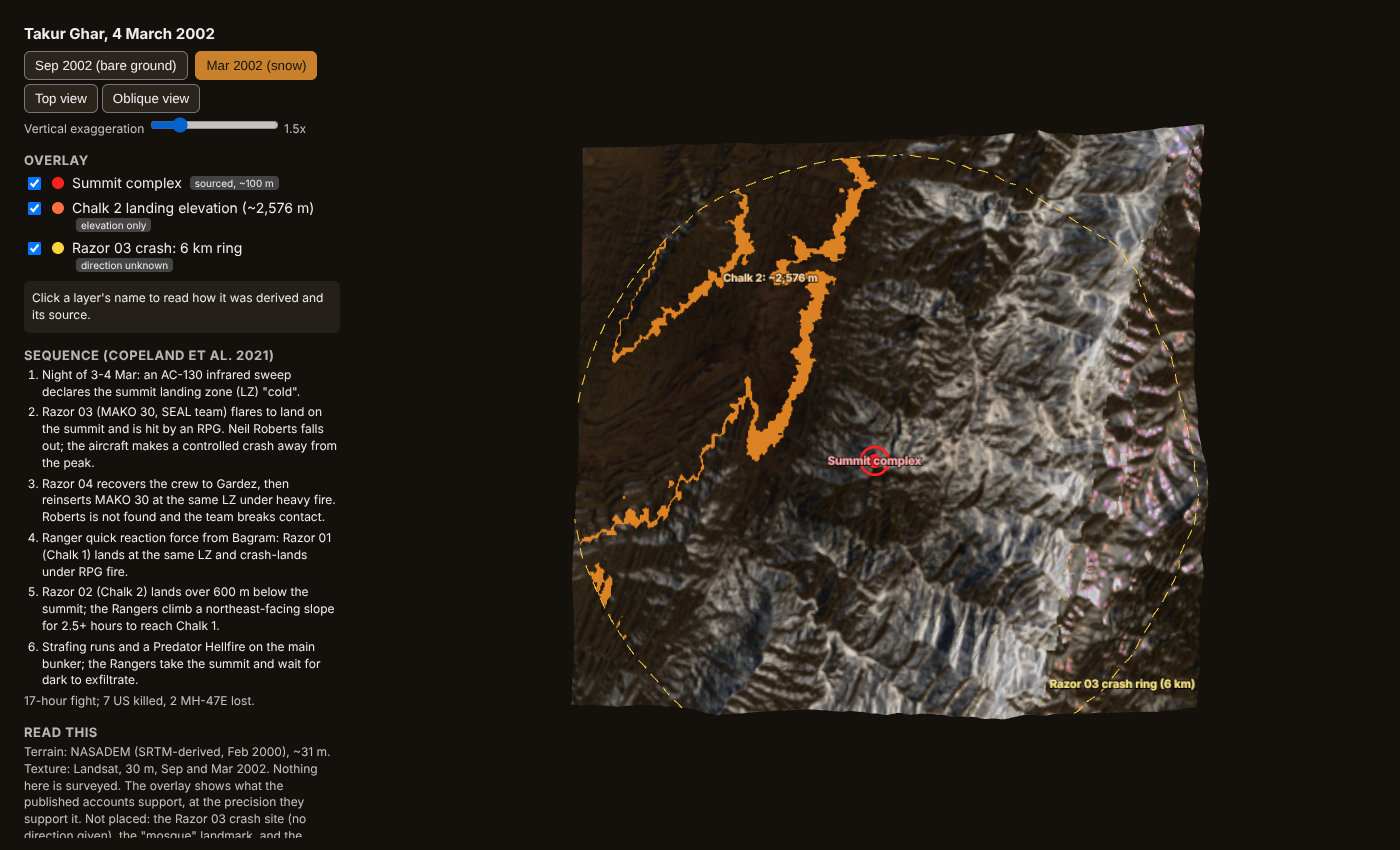
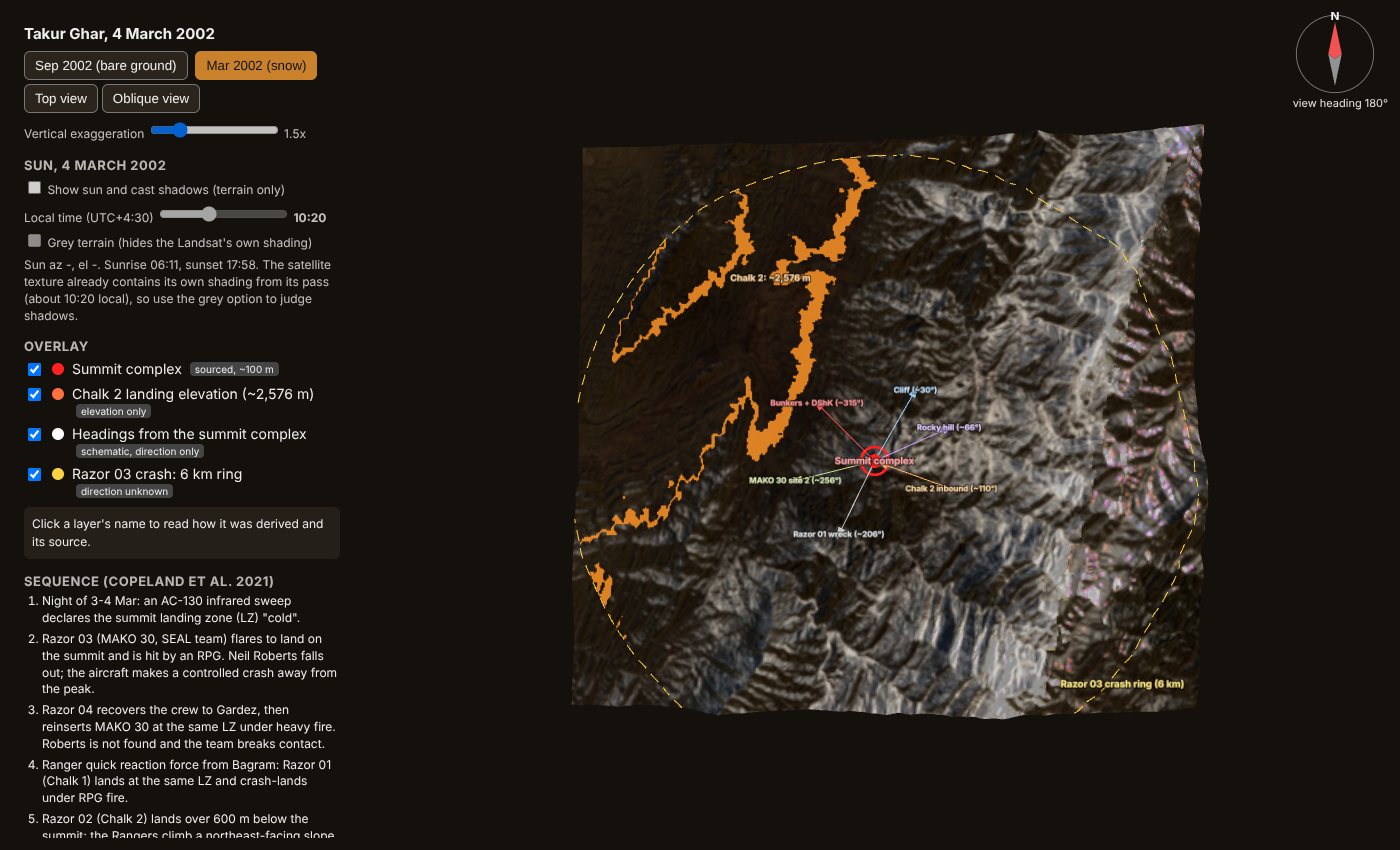
Add headings, compass, sun/shadow analysis and OSM peak check to the Takur Ghar viewer
Headings read from Naylor (2005) sketch via Battlecast and Copeland et al. Fig. 3.
Viewshed is computed but not committed: it is not robust to observer height.

Claude-Session: https://claude.ai/code/session_01DWeMD2oLoGkautpdgaCY6w

diff --git a/gods-eye-view/research/takur-ghar/viewer.html b/gods-eye-view/research/takur-ghar/viewer.html
@@ -13,15 +13,21 @@
   button[aria-pressed="true"] { background: #c9822b; border-color: #c9822b; color: #111; }
   label.layer { display: flex; gap: 8px; align-items: flex-start; margin: 6px 0; cursor: pointer; }
   .sw { width: 12px; height: 12px; border-radius: 50%; margin-top: 3px; flex: none; }
+  label.note { display: block; margin: 5px 0; }
   small, .note { font-size: 12px; opacity: .8; line-height: 1.4; }
   #info { margin-top: 8px; padding: 8px; background: #241f18; border-radius: 6px; font-size: 12px; line-height: 1.45; min-height: 3em; }
   ol { padding-left: 18px; margin: 4px 0; font-size: 12px; line-height: 1.4; }
   li { margin-bottom: 4px; }
   .tag { display: inline-block; font-size: 10px; padding: 1px 5px; border-radius: 4px; background: #444; margin-left: 4px; vertical-align: 1px; }
+  #compass { position: fixed; top: 12px; right: 12px; text-align: center; font-size: 11px; opacity: .95; }
+  #compass svg { display: block; }
   @media (max-width: 700px) { #ui { width: auto; right: 12px; bottom: auto; max-height: 45vh; } }
 </style>
 </head>
 <body>
+<div id="compass" aria-label="compass"><svg viewBox="-50 -50 100 100" width="84" height="84">
+  <circle r="46" fill="rgba(20,17,13,.8)" stroke="#888"/><g id="needle"><path d="M0 -38 L8 0 L0 6 L-8 0Z" fill="#ff5555"/><path d="M0 38 L8 0 L0 6 L-8 0Z" fill="#999"/>
+  <text y="-40" text-anchor="middle" font-size="14" font-weight="700" fill="#fff" transform="translate(0,-0)">N</text></g></svg><div id="cvals">N up</div></div>
 <div id="ui">
   <h1>Takur Ghar, 4 March 2002</h1>
   <div>
@@ -42,6 +48,8 @@
     <span>Summit complex <span class="tag">sourced, ~100 m</span></span></label>
   <label class="layer"><input type="checkbox" id="L_chalk2" checked><span class="sw" style="background:#ff7040"></span>
     <span>Chalk 2 landing elevation (~2,576 m) <span class="tag">elevation only</span></span></label>
+  <label class="layer"><input type="checkbox" id="L_head" checked><span class="sw" style="background:#ffffff"></span>
+    <span>Headings from the summit complex <span class="tag">schematic, direction only</span></span></label>
   <label class="layer"><input type="checkbox" id="L_ring" checked><span class="sw" style="background:#ffd23f"></span>
     <span>Razor 03 crash: 6 km ring <span class="tag">direction unknown</span></span></label>
   <div id="info">Click a layer's name to read how it was derived and its source.</div>
@@ -74,13 +82,16 @@ import { GLTFLoader } from 'three/addons/loaders/GLTFLoader.js';
 import { OrbitControls } from 'three/addons/controls/OrbitControls.js';
 
 const INFO = {
-  summit: '<b>Summit complex</b> (DEM high point 3,172 m; published 3,186 m, about 450 m from the usually quoted coordinate). ' +
+  summit: '<b>Summit complex</b> (terrain high point 3,172 m at 33.3429 N 69.2135 E; published 3,186 m; OpenStreetMap\'s peak node, imported from the NGA names database, gives 3,191 m and is 90 m away, which is an independent check on the location). ' +
     'Per Copeland et al. (2021): enemy bunkers, a DShK heavy machine gun and mortar positions on the peak; a bowl-shaped, snow-covered LZ about 60 m from the bunkers; ' +
     'the Ranger fighting position beside the LZ; the northeast flank was a vertical cliff. Razor 03 was hit landing here, Razor 04 reinserted here, Razor 01 crash-landed here. ' +
     'All of it sits within ~100 m, which this 31 m terrain can\'t separate, so it is one marker.',
-  chalk2: '<b>Chalk 2 landing elevation.</b> Razor 02 put Chalk 2 "over 600 m below the summit" (about 2,000 ft below the LZ), and they then climbed a northeast-facing slope for over 2.5 hours (Copeland et al. 2021, citing Macpherson 2005). ' +
-    'The orange band is the terrain at about 2,576 m within 6 km of the summit. The landing was somewhere along it; the sources do not say where. ' +
-    'In this terrain model all ground at that elevation lies on the western, valley side, while the paper\'s Figure 3 draws the Chalk 2 approach from the east. I could not reconcile the two (the published summit height and coordinate, or "over 600 m", may be loose), and a search for steep northeast-facing slopes leading up to the summit found almost nothing, so no landing spot is claimed.',
+  chalk2: '<b>Chalk 2 landing elevation.</b> Razor 02 put Chalk 2 "over 600 m below the summit" (about 2,000 ft below the LZ) and they climbed a northeast-facing slope for over 2.5 hours (Copeland et al. 2021, citing Macpherson 2005). The orange band is the terrain at about 2,576 m within 6 km of the summit. ' +
+    '<b>Unresolved:</b> Naylor\'s sketch and Copeland\'s Figure 3 both show Chalk 2 arriving from the east or south-east, but in this terrain model there is no ground near 2,576 m east or south-east of the summit within 8 km (it is 2,800-3,300 m there); the 2,576 m ground is west and north-west, on the valley side. ' +
+    'Either "2,000 feet below" or the direction (or this elevation model) is off, so no landing spot is claimed.',
+  head: '<b>Headings</b> read from two schematics: Naylor (2005), "Razor 01 assault on Al Qaida bunker atop Takur Ghar" (as reproduced on thebattlecast.com), whose compass arrow is labelled "W" and points up, so west is up on that sketch; and Copeland et al. Fig. 3. ' +
+    'They agree that the bunkers are north-west of the Rangers\' position and that Chalk 2 came from the east. Bearings are good to about 25 deg and lengths mean nothing (the sketches are not to scale). The arrows start at the summit marker because the whole complex is within about 100 m. ' +
+    'The orientation read from the W arrow is mine; if you can check it against the book, do.',
   ring: '<b>Razor 03 crash: 6 km ring.</b> The geographic analysis says Razor 03 made a controlled crash "away from the peak"; the Army SOF history ("From a Great Height") puts tail 476 about 6 km from Takur Ghar. ' +
     'Neither gives a direction, so this is only a ring. Treating tail 476 as Razor 03 is my inference, and the sources are not fully consistent with each other.',
 };
@@ -123,7 +134,7 @@ const layers = {};
 function label(text, color) {
   const c = document.createElement('canvas'); c.width = 512; c.height = 96;
   const g = c.getContext('2d');
-  g.font = 'bold 40px system-ui, sans-serif'; g.textAlign = 'center'; g.textBaseline = 'middle';
+  g.font = 'bold 34px system-ui, sans-serif'; g.textAlign = 'center'; g.textBaseline = 'middle';
   g.lineWidth = 8; g.strokeStyle = 'rgba(0,0,0,.85)'; g.strokeText(text, 256, 48);
   g.fillStyle = color; g.fillText(text, 256, 48);
   const sp = new THREE.Sprite(new THREE.SpriteMaterial({ map: new THREE.CanvasTexture(c), depthTest: false, transparent: true }));
@@ -196,6 +207,25 @@ Promise.all([
   const mid = ov.ring6km.filter(Boolean)[Math.floor(ov.ring6km.filter(Boolean).length / 2)];
   rlab.position.set(mid[0], mid[1] + 700, mid[2]); ringG.add(rlab);
   world.add(ringG); layers.ring = ringG;
+  // Headings: direction arrows from the summit complex (lengths are arbitrary)
+  const headG = new THREE.Group();
+  for (const hd of ov.headings) {
+    const b = THREE.MathUtils.degToRad(hd.bearing);
+    const dir = new THREE.Vector3(Math.sin(b), 0, -Math.cos(b)); // x east, z south
+    const len = 1500, y0 = sy + 220;
+    const from = new THREE.Vector3(sx, y0, sz), to = from.clone().addScaledVector(dir, len);
+    const col = new THREE.Color(hd.color);
+    const pts = hd.inbound ? [to, from] : [from, to];
+    headG.add(new THREE.Line(new THREE.BufferGeometry().setFromPoints(pts), new THREE.LineBasicMaterial({ color: col })));
+    const head = new THREE.Mesh(new THREE.ConeGeometry(70, 220, 10), new THREE.MeshBasicMaterial({ color: col }));
+    const tip = hd.inbound ? from.clone().addScaledVector(dir, 140) : to;
+    head.position.copy(tip);
+    head.quaternion.setFromUnitVectors(new THREE.Vector3(0, 1, 0), hd.inbound ? dir.clone().negate() : dir);
+    headG.add(head);
+    const l = label(`${hd.label} (~${hd.bearing}°)`, hd.color); l.scale.set(2200, 412, 1);
+    l.position.copy(to).add(new THREE.Vector3(0, 160, 0)); headG.add(l);
+  }
+  world.add(headG); layers.head = headG;
   window.__ready = true;
 });
 
@@ -236,8 +266,8 @@ function setGrey(g) {
 document.getElementById('grey').addEventListener('change', (e) => setGrey(e.target.checked));
 const _apply = apply;
 
-for (const key of ['summit', 'chalk2', 'ring']) {
-  const box = document.getElementById('L_' + (key === 'ring' ? 'ring' : key));
+for (const key of ['summit', 'chalk2', 'ring', 'head']) {
+  const box = document.getElementById('L_' + key);
   box.addEventListener('change', () => { if (layers[key]) layers[key].visible = box.checked; });
   box.parentElement.querySelector('span:last-child').addEventListener('click', () => { document.getElementById('info').innerHTML = INFO[key]; });
   box.parentElement.addEventListener('mouseenter', () => { document.getElementById('info').innerHTML = INFO[key]; });
@@ -253,7 +283,13 @@ exag.oninput = () => {
   document.getElementById('exagv').textContent = (1.5 * Number(exag.value)).toFixed(1) + 'x';
 };
 addEventListener('resize', () => { camera.aspect = innerWidth / innerHeight; setOffset(); camera.updateProjectionMatrix(); renderer.setSize(innerWidth, innerHeight); });
-renderer.setAnimationLoop(() => { controls.update(); renderer.render(scene, camera); });
+const needle = document.getElementById('needle'), cvals = document.getElementById('cvals');
+renderer.setAnimationLoop(() => {
+  controls.update(); renderer.render(scene, camera);
+  const az = THREE.MathUtils.radToDeg(controls.getAzimuthalAngle());   // 0 = looking north (camera south of target)
+  needle.setAttribute('transform', `rotate(${az.toFixed(1)})`);
+  cvals.textContent = `view heading ${((180 - az + 360) % 360).toFixed(0)}°`;
+});
 </script>
 </body>
 </html>

diff --git a/gods-eye-view/research/takur-ghar/build_overlay.py b/gods-eye-view/research/takur-ghar/build_overlay.py
@@ -14,6 +14,7 @@ Everything here is a *derived or schematic* position, not a surveyed one. Inputs
   An attempt to also pick out a "candidate area" by requiring a steep northeast-facing slope that leads up to
   the summit left only 2 cells in the whole box (about 5.9 km out), and a version without the "leads up to the
   summit" test put most cells on the far side of the valley. Neither was defensible, so no area is claimed.
+* Headings: bearings read from Naylor's sketch (via Battlecast) and Copeland et al. Fig. 3, see HEADINGS below.
 * Razor 03 crash ring: the Army SOF history puts tail 476 about 6 km from Takur Ghar; the geographic analysis
   says Razor 03 made a controlled crash "away from the peak". Direction is not given in either source, so this
   is a 6 km ring around the summit (clipped to the box). Mapping Razor 03 to tail 476 is an inference.
@@ -56,14 +57,19 @@ near = np.hypot(X - px, Z - pz) <= 600
 r0, c0 = np.unravel_index(np.argmax(np.where(near, z, -np.inf)), z.shape)
 summit = {"lat": float(lat[r0, c0]), "lon": float(lon[r0, c0]), "elev_m": float(z[r0, c0]), "model": to_model(r0, c0),
           "offset_from_published_coord_m": float(np.hypot(X[r0, c0] - px, Z[r0, c0] - pz))}
+# Independent check: OpenStreetMap's peak node (imported from the NGA GNS database), Nominatim "Takur Ghar".
+OSM = {"lat": 33.3421431, "lon": 69.2137717, "ele_m": 3191}
+OSM["distance_from_dem_summit_m"] = float(np.hypot((OSM["lon"] - lon[r0, c0]) * m_lon, (OSM["lat"] - lat[r0, c0]) * m_lat))
+summit["osm_peak"] = OSM
 dist = np.hypot(X - X[r0, c0], Z - Z[r0, c0])
 dx, dz = X[0, 1] - X[0, 0], Z[1, 0] - Z[0, 0]
 
 # Chalk 2 landing elevation: ~610 m (2,000 ft) below the 3,186 m summit.
 target = 3186 - 609.6
 cand = (np.abs(z - target) <= 10) & (dist <= 6000) & (dist > 0)
-print(f"summit {summit['elev_m']:.0f} m at {summit['lat']:.4f}N {summit['lon']:.4f}E "
-      f"({summit['offset_from_published_coord_m']:.0f} m from published coord)")
+print(f"summit {summit['elev_m']:.0f} m at {summit['lat']:.4f}N {summit['lon']:.4f}E; "
+      f"{summit['offset_from_published_coord_m']:.0f} m from the rounded 33.34N 69.21E, "
+      f"{summit['osm_peak']['distance_from_dem_summit_m']:.0f} m from the OSM peak node")
 print(f"{target:.0f} m contour band cells: {cand.sum()}; dist to summit min/median/max "
       f"{dist[cand].min():.0f}/{np.median(dist[cand]):.0f}/{dist[cand].max():.0f} m")
 
@@ -88,8 +94,31 @@ rr, cc = np.nonzero(cand)
 k = np.argmin((rr - np.median(rr)) ** 2 + (cc - np.median(cc)) ** 2)
 label_model = to_model(rr[k], cc[k])
 
+# Directions from the Rangers' position / LZ (all within ~100 m of the summit marker). Bearings are true compass
+# bearings read from two schematic figures, so +/- 25 deg at best, and distances are NOT to scale:
+#  * Naylor 2005, "Razor 01 assault on Al Qaida bunker atop Takur Ghar", as reproduced on thebattlecast.com
+#    (Battlecast, 2024). Its compass arrow is labelled "W" and points up, i.e. WEST IS UP on that sketch, which I
+#    read as: map-right = north, map-down = east, map-left = south.
+#  * Copeland et al. 2021, Fig. 3 (oblique view; its compass puts north toward the upper right, i.e. looking NW).
+# The two agree on the bunkers (NW of the LZ) and on Chalk 2 arriving from the east.
+HEADINGS = [
+    {"id": "bunkers", "label": "Bunkers + DShK", "bearing": 315, "color": "#ff5555",
+     "note": "Enemy bunker system (boulder, 'bonsai' tree, DShK) lies north-west of the Rangers' position. Both figures agree."},
+    {"id": "cliff", "label": "Cliff", "bearing": 30, "color": "#9ad0ff",
+     "note": "Vertical cliff on the Rangers' right, to the north-east (Self 2008 via Copeland; the Naylor sketch draws it along the north edge)."},
+    {"id": "rocky_hill", "label": "Rocky hill", "bearing": 66, "color": "#c8a0ff",
+     "note": "On the Naylor sketch Chalk 2's path ends at a rocky hill east-north-east of the Rangers' position; Roberts' helmet is marked there."},
+    {"id": "chalk2", "label": "Chalk 2 inbound", "bearing": 110, "color": "#ffb060", "inbound": True,
+     "note": "Chalk 2 (Canon) came up from the east/south-east and swung round to the rocky hill. Direction only; the sketch is not to scale."},
+    {"id": "razor01", "label": "Razor 01 wreck", "bearing": 206, "color": "#cccccc",
+     "note": "The crashed Chinook lies south-south-west of the Rangers' position (about 15 m on the sketch)."},
+    {"id": "mako30", "label": "MAKO 30 site 2", "bearing": 256, "color": "#c8e08a",
+     "note": "Marked on the sketch west-south-west of the Rangers' position."},
+]
+
 out = {
     "summit": summit,
+    "headings": HEADINGS,
     "chalk2": {"texture": "overlay_chalk2.png", "cells": int(cand.sum()), "elev_m": float(target), "label_model": label_model,
                "criteria": "elevation 2576 +/- 10 m (610 m below the 3,186 m summit), within 6 km of the summit"},
     "ring6km": ring,

diff --git a/gods-eye-view/research/takur-ghar/README.md b/gods-eye-view/research/takur-ghar/README.md
@@ -6,7 +6,7 @@ north-up when viewed from above. Vertical exaggeration is x1.5.
 
 | Layer | Source | Date | Resolution |
 |---|---|---|---|
-| Terrain | NASADEM (NASA reprocessing of SRTM), Planetary Computer `nasadem` | 20 Feb 2000 | ~31 m, no voids in this box |
+| Terrain | NASADEM (NASA reprocessing of SRTM), Planetary Computer `nasadem` | 20 Feb 2000 | ~31 m N-S x ~26 m E-W, no voids in this box |
 | Texture | Landsat 7 ETM+ Collection 2 surface reflectance, LE07_L2SP_153037_20020913 | 13 Sep 2002 (0% cloud, snow-free) | 30 m |
 | Texture fill (east edge) | LE07_L2SP_152037_20020922 | 22 Sep 2002 (0% cloud) | 30 m |
 | **March texture** | LE07_L2SP_153037_20020305 (day after the battle, 5% scene cloud) | 5 Mar 2002 | 30 m |
@@ -35,20 +35,22 @@ Three layers, each with its derivation shown in the viewer. None is a surveyed p
 
 | Layer | What it is | Basis |
 |---|---|---|
-| Summit complex | Highest DEM cell within 600 m of the usual coordinate (3,172 m at 33.3429 N 69.2135 E, about 456 m from that coordinate) | Copeland et al. 2021: bunkers, DShK, LZ (~60 m from the bunkers) and Ranger fighting position all on the summit; too close together for a 31 m DEM, so one marker |
-| Chalk 2 landing elevation | The ~2,576 m contour band (+/-10 m) within 6 km of the summit | "Over 600 m / 2,000 ft below" the summit (Copeland et al., citing Macpherson 2005). The elevation is all the sources fix |
+| Summit complex | Highest terrain cell near the usual coordinate: 3,172 m at 33.3429 N 69.2135 E | Copeland et al. 2021: bunkers, DShK, LZ (~60 m from the bunkers) and Ranger fighting position all on the summit; too close together for a 31 m DEM, so one marker. **Location check:** OpenStreetMap's peak node for Takur Ghar (from the NGA names database, 33.3421 N 69.2138 E, 3,191 m) is 90 m from this cell. The rounded 33.34 N 69.21 E that I used first is 456 m away and would have been wrong. |
+| Headings | Six direction arrows from the summit marker (bunkers NW ~315 deg, cliff NE ~30, rocky hill ENE ~66, Chalk 2 inbound from ~110 deg, Razor 01 wreck SSW ~206, MAKO 30 second site WSW ~256) | Read from Naylor 2005, "Razor 01 assault on Al Qaida bunker atop Takur Ghar" (as reproduced on thebattlecast.com) and Copeland et al. Fig. 3. Direction only (about +/-25 deg), lengths mean nothing. **My reading of the Naylor sketch: its compass arrow is labelled "W" and points up, so west is up.** Copeland's figure independently agrees on the bunkers (NW) and Chalk 2 (from the east). Please check against the book. |
+| Chalk 2 landing elevation | The ~2,576 m contour band (+/-10 m) within 6 km of the summit | "Over 600 m / 2,000 ft below" the summit (Copeland et al., citing Macpherson 2005). The elevation is all the sources fix, and see the problem below |
 | Razor 03 crash ring | 6 km circle around the summit | Army SOF history puts tail 476 about 6 km from Takur Ghar; Razor 03 "crashed away from the peak". No direction given; treating 476 as Razor 03 is an inference |
 
 Known problems:
 
-* Everything at the Chalk 2 elevation in this model lies on the western valley side, but the paper's Figure 3 draws the
-  Chalk 2 approach from the east. I could not reconcile them (the published summit height/coordinate, or "over 600 m",
-  may be loose). A search for steep northeast-facing slopes leading up to the summit found 2 cells in the whole box, so
-  no landing patch is claimed. An earlier version without the "leads up to the summit" test was misleading and was dropped.
+* **Chalk 2: elevation and direction disagree.** Both schematics put Chalk 2's approach to the east or south-east, but
+  in this terrain model there is no ground near 2,576 m east or south-east of the summit within 8 km (it is 2,800-3,300
+  m there). The 2,576 m ground is west and north-west, on the valley side. Either "2,000 feet below", the direction, or
+  the elevation model is off, so no landing spot is claimed. Requiring a steep north-east-facing slope that leads up
+  to the summit leaves 2 cells in the whole box; an earlier version without that test was misleading and was dropped.
 * Not placed: the Razor 03 crash site, the "mosque" landmark in Figure 3, the Predator's orbit, and any clock times
   (the sources give a sequence, not times, apart from "night of 3-4 March", the 17-hour duration and sunset exfiltration).
-* The summit marker is the DEM high point. Published coordinates differ in the 4th decimal and the DEM is 14 m below the
-  published 3,186 m, so treat positions as good to a few hundred metres at best.
+* The summit marker is the terrain high point, 14-19 m below the published 3,186 m / OSM 3,191 m (SRTM error). The Naylor
+  sketch is a schematic from a book as reproduced on a blog, and its orientation is my reading.
 
 Rebuild: `./fetch_inputs.sh` then
 `python3 build_scene.py NASADEM_HGT_n33e069.tif red.tif green.tif blue.tif --fill fill_red.tif fill_green.tif fill_blue.tif`
@@ -56,3 +58,27 @@ then `python3 render_preview.py takur_ghar_2002.glb preview`. For March run `./f
 `mar_*` files and `--out takur_ghar_2002_mar.glb` (the viewer reuses the September mesh and only swaps the texture PNG). Needs rasterio, numpy, trimesh, pillow, matplotlib.
 
 Also here: `dem_check.py` (void/slope check), `REQUESTS.md` (imagery requests and leads).
+
+## Sun and shadow, 4 March 2002 (`sun_viewshed.py` -> `analysis.json`, `sun_shadow.png`, `sun.json`)
+
+Terrain only. The sun model (astral, at the summit, Afghanistan time UTC+4:30) matches the Landsat 7 pass of 5 Mar
+2002 05:49:50 UTC (metadata az 141.5 / el 43.0 deg; computed 142.8 / 43.4). Sunrise 06:11, sunset 17:58.
+
+| | |
+|---|---|
+| Direct sun at the summit | 11.0 h of the day (terrain shadows and slope only) |
+| Share of the box in terrain shadow | 24% at 08:00, 1% at 10:20, 1% at 14:00, 20% at 16:30 |
+| Median direct-sun hours, steep slopes above 2,400 m within 6 km | NE-facing 8.0, E 8.7, N 8.7, W 9.0, SW 9.7, S 10.0 |
+
+So in early March a north-east-facing slope loses only about two hours of sun against a south-facing one: the sun is
+high enough that most of the difference is in the first and last hours.
+
+Not modelled: snow, rock, trees, cloud, atmosphere, and night. The Razor 03 insertion happened in the dark, so none of
+this speaks to that or to the AC-130's infrared sweep. The viewer's "Show sun and cast shadows" slider casts real-time
+shadows from the same sun table; use "Grey terrain" because the Landsat textures carry their own baked shading
+(`sun_0800_grey_terrain.png` shows 08:00).
+
+**Viewshed: not reliable, not shown.** The script also computes what a person at the summit could see. The result
+swings with an assumed observer height: ground within 2 km counted as visible is 3% at 2 m, 15% at 6 m and 34% at 12
+m, because the blocking terrain near the summit is only a few metres high, inside SRTM's error. A bilinear
+re-check agreed with the code, so this is a data limit, not a bug. I did not commit `viewshed.png` for that reason.

diff --git a/gods-eye-view/research/takur-ghar/REQUESTS.md b/gods-eye-view/research/takur-ghar/REQUESTS.md
@@ -47,6 +47,8 @@ Sensor, capture date/time (UTC), off-nadir angle, resolution, cloud/snow cover, 
 | Copeland et al., "The Battle of Takur Ghar: A Geographic Analysis" | Terrain analysis; uses 2018 Maxar imagery and aerial lidar obtained through NGA (not public) | https://msaag.aag.org/wp-content/uploads/2022/06/8-Copeland-et-al-MSG54-2021.pdf |
 | Army War College paper (DTIC ADA414541) | Predator feed and command situational awareness | https://apps.dtic.mil/sti/pdfs/ADA414541.pdf |
 
+| Battlecast atlas page | Reproduces the Naylor (2005) Razor 01 assault sketch (west-up compass), the Naylor Anaconda landing-zone map and a drone infrared still of Slabinski's team and Chapman, 4 Mar 2002 (from Folse 2022, Army CMH). Blog, secondary; the figures are the value | https://thebattlecast.com/2024/10/18/a-historical-atlas-of-the-battle-of-takur-ghar/ |
+
 Open question: the sources disagree on where the downed aircraft sat (SOF history puts 476
 about 6 km from the peak; DVIDS captions a Chinook "atop" Takur Ghar). Resolve before plotting.
 No 2002 commercial satellite image of Takur Ghar was found in public sources.
